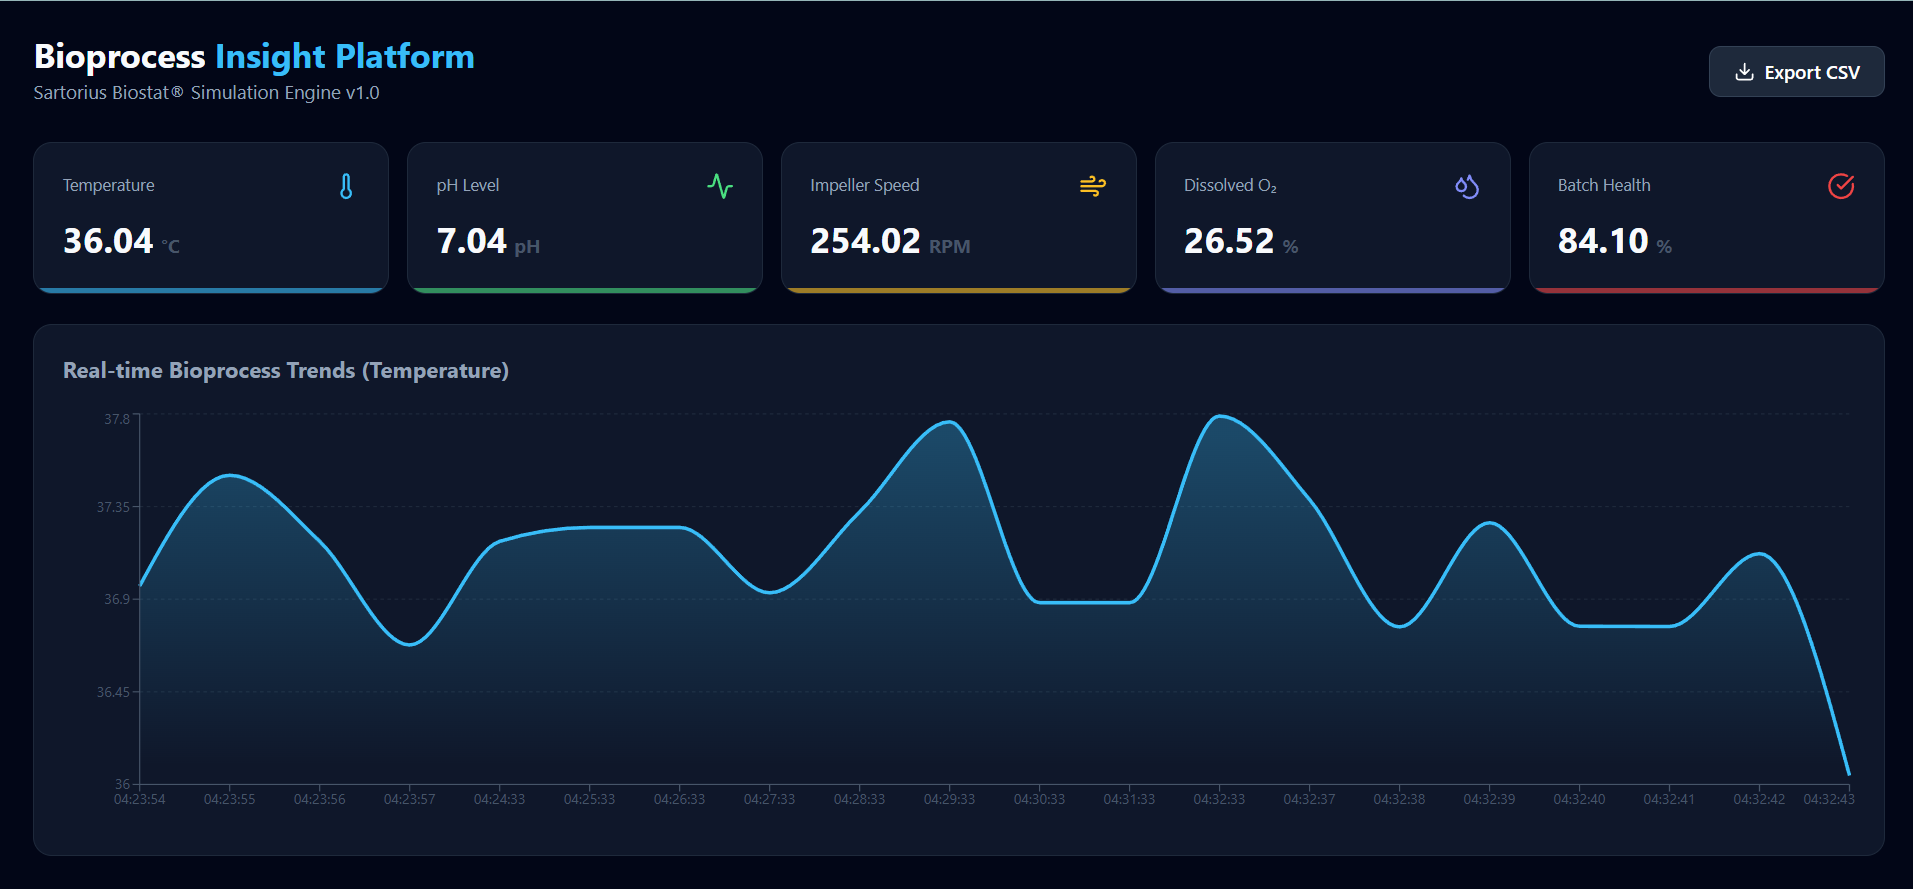
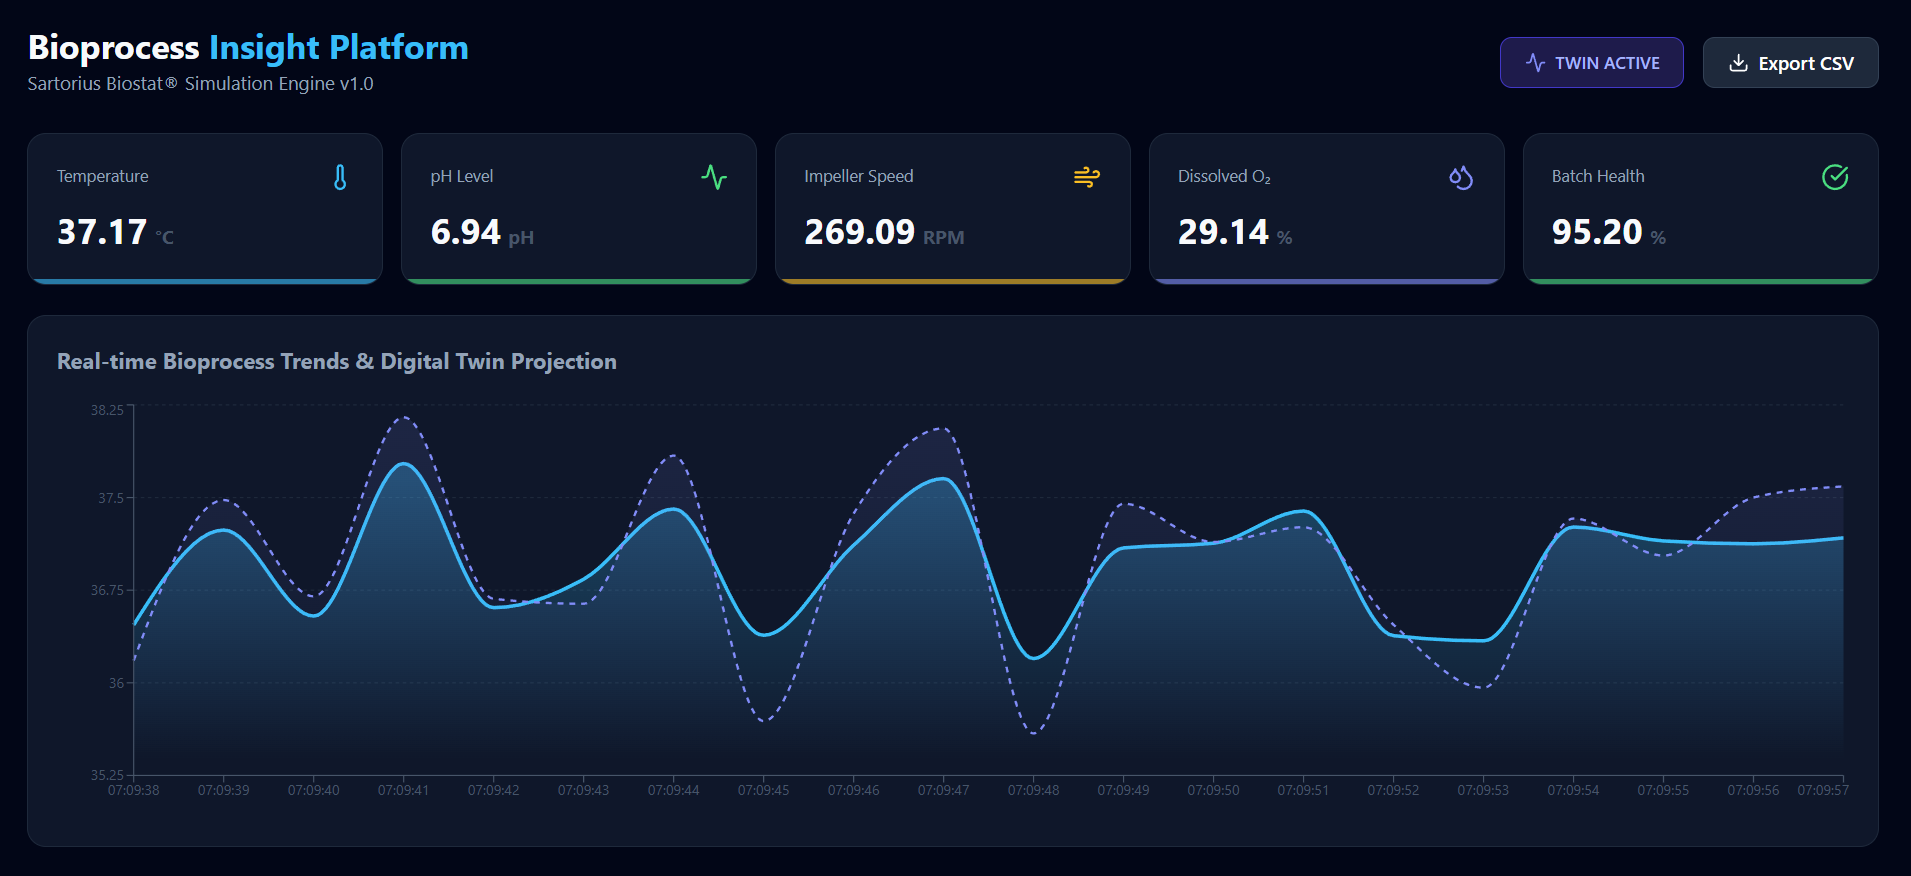
Add Digital Twin functionality

diff --git a/frontend/src/App.tsx b/frontend/src/App.tsx
@@ -70,6 +70,23 @@ function App() {
         </div>
 
         <div style={{ display: 'flex', gap: '16px', alignItems: 'center' }}>
+          {/* DIGITAL TWIN STATUS: Signals when the predictive engine has enough history to project trends */}
+          <div style={{ 
+            background: latest?.digital_twin_temp ? '#1e1b4b' : '#0f172a', 
+            color: latest?.digital_twin_temp ? '#a5b4fc' : '#475569', 
+            padding: '10px 20px', 
+            borderRadius: '10px', 
+            border: latest?.digital_twin_temp ? '1px solid #4338ca' : '1px solid #1e293b', 
+            display: 'flex', 
+            alignItems: 'center', 
+            gap: '8px',
+            fontWeight: 600,
+            fontSize: '0.9rem'
+          }}>
+            <Activity size={18} color={latest?.digital_twin_temp ? "#818cf8" : "#475569"} />
+            {latest?.digital_twin_temp ? "TWIN ACTIVE" : "CALIBRATING TWIN..."}
+          </div>
+
           {/* Anomaly Alert: CONDITIONAL UI: Renders a high-priority alert only if the 
               backend flags the current data as 'Out of Spec' (OOS). */}
           {latest?.is_anomaly && (
@@ -84,7 +101,7 @@ function App() {
             gap: '8px',
             fontWeight: 600,
             fontSize: '0.9rem',
-            animation: 'pulse 2s infinite' // Optional: adds that high-stakes blinking effect
+            animation: 'pulse 2s infinite' 
           }}>
             <AlertCircle size={18} />
             ANOMALY DETECTED
@@ -116,23 +133,34 @@ function App() {
       <div style={{ 
         background: '#0f172a', padding: '24px', borderRadius: '16px', 
         border: '1px solid #1e293b', flex: 1, display: 'flex', flexDirection: 'column',
-        minHeight: 0 // Crucial for flex child resizing
+        minHeight: 0 
       }}>
-        <h3 style={{ marginTop: 0, color: '#94a3b8' }}>Real-time Bioprocess Trends (Temperature)</h3>
+        <h3 style={{ marginTop: 0, color: '#94a3b8' }}>Real-time Bioprocess Trends & Digital Twin Projection</h3>
         <div style={{ flex: 1, width: '100%', minHeight: 0 }}>
           <ResponsiveContainer width="100%" height="100%">
             <AreaChart data={history}>
               <defs>
+                {/* Original Blue Gradient */}
                 <linearGradient id="colorTemp" x1="0" y1="0" x2="0" y2="1">
                   <stop offset="5%" stopColor="#38bdf8" stopOpacity={0.3}/>
                   <stop offset="95%" stopColor="#38bdf8" stopOpacity={0}/>
+                </linearGradient>
+                {/* New Digital Twin Gradient (Purple/Indigo) */}
+                <linearGradient id="colorTwin" x1="0" y1="0" x2="0" y2="1">
+                  <stop offset="5%" stopColor="#818cf8" stopOpacity={0.2}/>
+                  <stop offset="95%" stopColor="#818cf8" stopOpacity={0}/>
                 </linearGradient>
               </defs>
               <CartesianGrid strokeDasharray="3 3" stroke="#1e293b" vertical={false} />
               <XAxis dataKey="timestamp" stroke="#475569" tick={{fontSize: 12}} />
               <YAxis domain={['auto', 'auto']} stroke="#475569" tick={{fontSize: 12}} />
               <Tooltip contentStyle={{ backgroundColor: '#0f172a', border: '1px solid #1e293b', borderRadius: '8px' }} />
+              
+              {/* PRIMARY DATA: The actual CSV sensor data */}
               <Area type="monotone" dataKey="Temperature" stroke="#38bdf8" fillOpacity={1} fill="url(#colorTemp)" strokeWidth={3} isAnimationActive={false} />
+              
+              {/* DIGITAL TWIN: Predictive projection from the backend buffer */}
+              <Area type="monotone" dataKey="digital_twin_temp" stroke="#818cf8" strokeDasharray="5 5" fill="url(#colorTwin)" strokeWidth={2} isAnimationActive={false} name="Twin Prediction" />
             </AreaChart>
           </ResponsiveContainer>
         </div>

diff --git a/backend/main.py b/backend/main.py
@@ -29,13 +29,18 @@ except Exception as e:
 # Tracker for the sliding data simulation
 current_index = 0
 
+# Digital Twin Memory: Stores the last 5 Temperature points to calculate trends
+# This allows the "Twin" to project future values based on recent history
+temp_buffer = []
+
 @app.get("/api/v1/process-data")
 async def get_process_data():
     """
     Simulates real-time hardware data by iterating through the CSV rows.
     Calculates derived metrics like Health Score and Anomaly detection.
+    Integrates a Digital Twin layer for predictive Temperature modeling.
     """
-    global current_index
+    global current_index, temp_buffer
     if df.empty:
         return {"error": "No data available"}
     
@@ -43,16 +48,28 @@ async def get_process_data():
     row = df.iloc[current_index].to_dict()
     current_index = (current_index + 1) % len(df)
     
-    # 2. Calculate Deviation: How far are we from the "Perfect" 37°C and 7.0 pH?
+    # 2. Digital Twin Logic: Calculate the "Predicted" Temperature
+    # We maintain a sliding window of the last 5 points to determine the slope
+    temp_buffer.append(row['Temperature'])
+    if len(temp_buffer) > 5:
+        temp_buffer.pop(0)
+    
+    predicted_temp = None
+    if len(temp_buffer) == 5:
+        # Simple Linear Projection: (Current - 4 steps ago) / time_delta
+        slope = (temp_buffer[-1] - temp_buffer[0]) / 4
+        predicted_temp = round(temp_buffer[-1] + (slope * 2), 2)
+
+    # 3. Calculate Deviation: How far are we from the "Perfect" 37°C and 7.0 pH?
     temp_deviation = abs(row['Temperature'] - 37.0)
     ph_deviation = abs(row['pH'] - 7.0)
     
-    # 3. Calculate Health Score: Starts at 100, drops as deviations increase
+    # 4. Calculate Health Score: Starts at 100, drops as deviations increase
     # This simulates a real-time "Batch Quality Index"
     health_score = 100 - (temp_deviation * 15) - (ph_deviation * 40)
     health_score = max(0, min(100, health_score)) # Constrain between 0-100
     
-    # 4. Anomaly Logic: Flags "Out of Spec" conditions for the UI alert
+    # 5. Anomaly Logic: Flags "Out of Spec" conditions for the UI alert
     is_anomaly = row['Temperature'] > 40.0 or row['Impeller_Speed'] < 100.0
     
     return {
@@ -61,6 +78,7 @@ async def get_process_data():
             **row,
             "health_score": round(health_score, 1),
             "is_anomaly": is_anomaly,
+            "digital_twin_temp": predicted_temp,
             "timestamp": pd.Timestamp.now().strftime("%H:%M:%S")
         }
     }
@@ -81,4 +99,6 @@ async def download_report():
 # Server Entry Point: Must be at the bottom to ensure all routes are registered
 if __name__ == "__main__":
     import uvicorn
-    uvicorn.run(app, host="127.0.0.1", port=8000)
+    # Render provides a $PORT environment variable; we default to 8000 for local testing
+    port = int(os.environ.get("PORT", 8000))
+    uvicorn.run(app, host="0.0.0.0", port=port)

diff --git a/README.md b/README.md
@@ -5,22 +5,43 @@
 ## 🧪 Project Overview
 This platform simulates a live connection to a **Sartorius Biostat®** controller, providing real-time data visualization and automated anomaly detection for critical process parameters (CPPs). It bridges the gap between raw CSV historical data and live operational visibility.
 
+---
+
+## 🌍 Live Deployment
+The platform is fully orchestrated across a distributed cloud architecture:
+
+- **Frontend Dashboard:** [https://bioprocess-insights-platform.vercel.app/] (Hosted on Vercel)
+- **Backend API:** [https://bioprocess-insights-platform.onrender.com] (Hosted on Render)
+
+### 🏗 Cloud Architecture
+- **CI/CD:** Automatic deployments triggered via GitHub Actions.
+
+- **Environment Management:** Utilizes `VITE_API_URL` environment variables to dynamically switch between local development and production API endpoints.
+
+- **Cross-Origin Resource Sharing (CORS):** Backend configured to securely communicate with the Vercel-hosted frontend.
+
+---
 
 ## 📸 Dashboard Preview
 ![BIP Dashboard Preview](./assets/dashboard-preview.png)
 
+---
 
 ### 🚀 Key Features
 - **Real-time API:** Built with FastAPI to stream multivariate sensor data every 1000ms.
+- **Digital Twin Projection:** Predictive modeling that anticipates temperature shifts before they occur.
 - **Interactive Dashboard:** Live charting of Temperature, pH, and DO2 using React & Recharts.
 - **Batch Health Scoring:** Algorithmic calculation of batch viability based on setpoint deviations.
 - **Anomaly Detection:** Automated flagging of out-of-spec batches (e.g., thermal spikes or agitation failure).
 - **Data Portability:** One-click CSV export of the bioreactor yield reports.
 
+---
+
 ## 🛠 Tech Stack
 - **Backend:** Python 3.12, FastAPI, Pandas
 - **Frontend:** React (TypeScript), Recharts, Lucide-React
 - **Styling:** CSS-in-JS (Modern Dark-Mode UI)
+
 
 ---
 
@@ -31,7 +52,6 @@ This platform simulates a live connection to a **Sartorius Biostat®** controlle
 - Node.js (v18+)
 - npm or yarn
 
----
 
 ### 2. Backend Setup
 Navigate to the `backend` directory, create a virtual environment, and install dependencies:
@@ -48,7 +68,6 @@ pip install -r requirements.txt
 python main.py
 
 ```
---- 
 
 ### 3. Frontend Setup
 In a new terminal, navigate to the frontend directory:
@@ -59,9 +78,13 @@ npm install
 npm run dev
 ```
 
----
 
-## 🌐 Local Access
+### 4. Code Standards & Quality
+- **Type Safety:** Utilizes strict TypeScript interfaces for multivariate sensor data.
+- **Environment Awareness:** Implemented dynamic API routing to switch between `localhost` and `production` cloud endpoints automatically.
+
+
+###  5. 🌐 Local Access
 Once both services are started, the platform is available at:
 
 | Component | URL |
@@ -89,7 +112,7 @@ One of the primary challenges was managing two distinct environments (Python/Fas
 
 ### 2. Relative Path Resolution
 Since the backend service runs from within the `/backend` folder but needs to access data in the root-level `/data` folder, standard file paths would often break.
-- **Solution:** Used Python's `os.path.abspath(__file__)` to create a dynamic `BASE_DIR`. This allows the application to resolve the CSV path correctly regardless of whether the script is launched from the root or the subfolder.
+- **Solution:** Used Python's `os.path.abspath(__file__)` to create a dynamic `BASE_DIR`. This allows the application to resolve the CSV path correctly regardless of whether the script is launched from the root or the subfolder / (regardless of the environment).
 
 ### 3. Real-Time Data Simulation
 To mimic a live Biostat® controller without having a physical bioreactor connected, I implemented a global index tracker in FastAPI.
@@ -99,15 +122,21 @@ To mimic a live Biostat® controller without having a physical bioreactor connec
 
 ## 🧠 Business Logic & Calculations
 
-### Batch Health Score
+### 1. Batch Health Score
 The health score is a simulated Quality Index ($Q$) calculated based on the deviation from the ideal setpoints ($T_{set} = 37°C$, $pH_{set} = 7.0$):
 
 $$Health = 100 - (|T_{actual} - 37| \times 15) - (|pH_{actual} - 7| \times 40)$$
 
-### Anomaly Triggers
+### 2. Anomaly Triggers
 A batch is flagged as an Anomaly if:
 - Temperature > $40.0°C$
 - Impeller Speed < $100.0\ RPM$
+
+### 3. Digital Twin & Predictive Analytics
+The platform features a **Digital Twin** layer that uses a moving-window linear regression to predict process trends:
+- **Calibration Phase:** Upon startup, the system enters a 5-second "Warm-up" to populate the sliding buffer required for accurate slope calculation.
+- **Trend Analysis:** Predicts Temperature 60 seconds into the future based on the current $\Delta T / \Delta t$.
+- **Predictive Alarms:** Early warning system that triggers if the Digital Twin deviates from the safety setpoints before the physical sensors do /reach the threshold.
 
 ---
 
